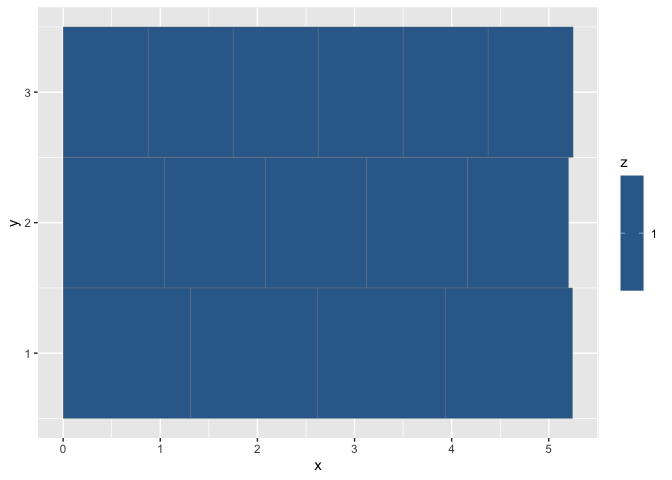
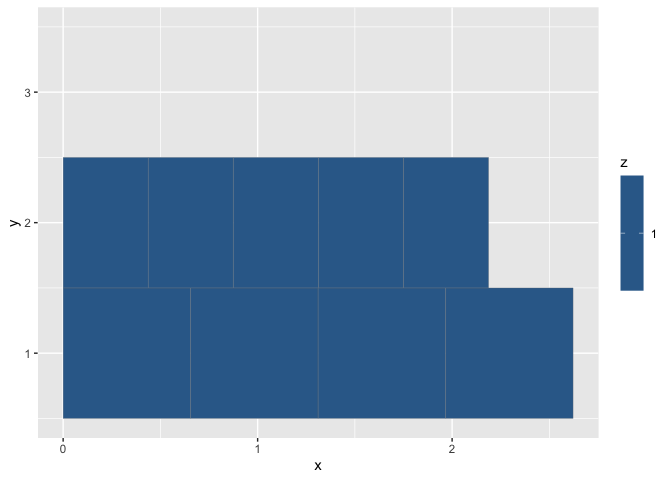
good stuff

Changed region(s): [[0.0938, 0.0312, 0.875, 0.625], [0.375, 0.9062, 0.4062, 0.9375]]

diff --git a/man/thoughts/Ratios-and-Inversions.md b/man/thoughts/Ratios-and-Inversions.md
@@ -3,15 +3,18 @@ Frequency and Wavelength Relative Periodicity
 
 ## Chord
 
-\[1\] 60 64 67
+\[1\] 72 79
 
 ### Cycles Estimates
 
 #### Spatial Estimate
 
-| tol_l |     min_l | lcd_l |  chord_l |   chord_T |
-|------:|----------:|------:|---------:|----------:|
-|  0.15 | 0.8750102 |     6 | 5.250061 | 0.0229335 |
+| tol_l |     min_l | lcd_l |   chord_l |   chord_T |
+|------:|----------:|------:|----------:|----------:|
+|  0.15 | 0.4375051 |     2 | 0.8750102 | 0.0038223 |
+
+    ## Warning: Removed 5 rows containing missing values or values outside the scale range
+    ## (`geom_tile()`).
 
 ![](Ratios-and-Inversions_files/figure-gfm/unnamed-chunk-4-1.png)<!-- -->
 
@@ -19,7 +22,10 @@ Frequency and Wavelength Relative Periodicity
 
 | tol_f |    min_f | lcd_f |  chord_f |   chord_T |
 |------:|---------:|------:|---------:|----------:|
-| 0.075 | 261.6256 |     6 | 43.60426 | 0.0229335 |
+|  0.15 | 523.2511 |     2 | 261.6256 | 0.0038223 |
+
+    ## Warning: Removed 5 rows containing missing values or values outside the scale range
+    ## (`geom_tile()`).
 
 ![](Ratios-and-Inversions_files/figure-gfm/unnamed-chunk-7-1.png)<!-- -->
 
@@ -27,17 +33,15 @@ Frequency and Wavelength Relative Periodicity
 
 | num | den |    ratio |      tone | reference_tone |
 |----:|----:|---------:|----------:|---------------:|
-|   1 |   1 | 1.000000 | 0.8750102 |      0.8750102 |
-|   4 |   3 | 1.189207 | 1.0405683 |      0.8750102 |
-|   3 |   2 | 1.498307 | 1.3110340 |      0.8750102 |
+|   1 |   1 | 1.000000 | 0.4375051 |      0.4375051 |
+|   3 |   2 | 1.498307 | 0.6555170 |      0.4375051 |
 
 ### Frequency Ratios
 
 | num | den |    ratio |     tone | reference_tone |
 |----:|----:|---------:|---------:|---------------:|
-|   1 |   1 | 1.000000 | 261.6256 |       261.6256 |
-|   4 |   3 | 1.259921 | 329.6276 |       261.6256 |
-|   3 |   2 | 1.498307 | 391.9954 |       261.6256 |
+|   1 |   1 | 1.000000 | 523.2511 |       523.2511 |
+|   3 |   2 | 1.498307 | 783.9909 |       523.2511 |
 
 #### References
 
